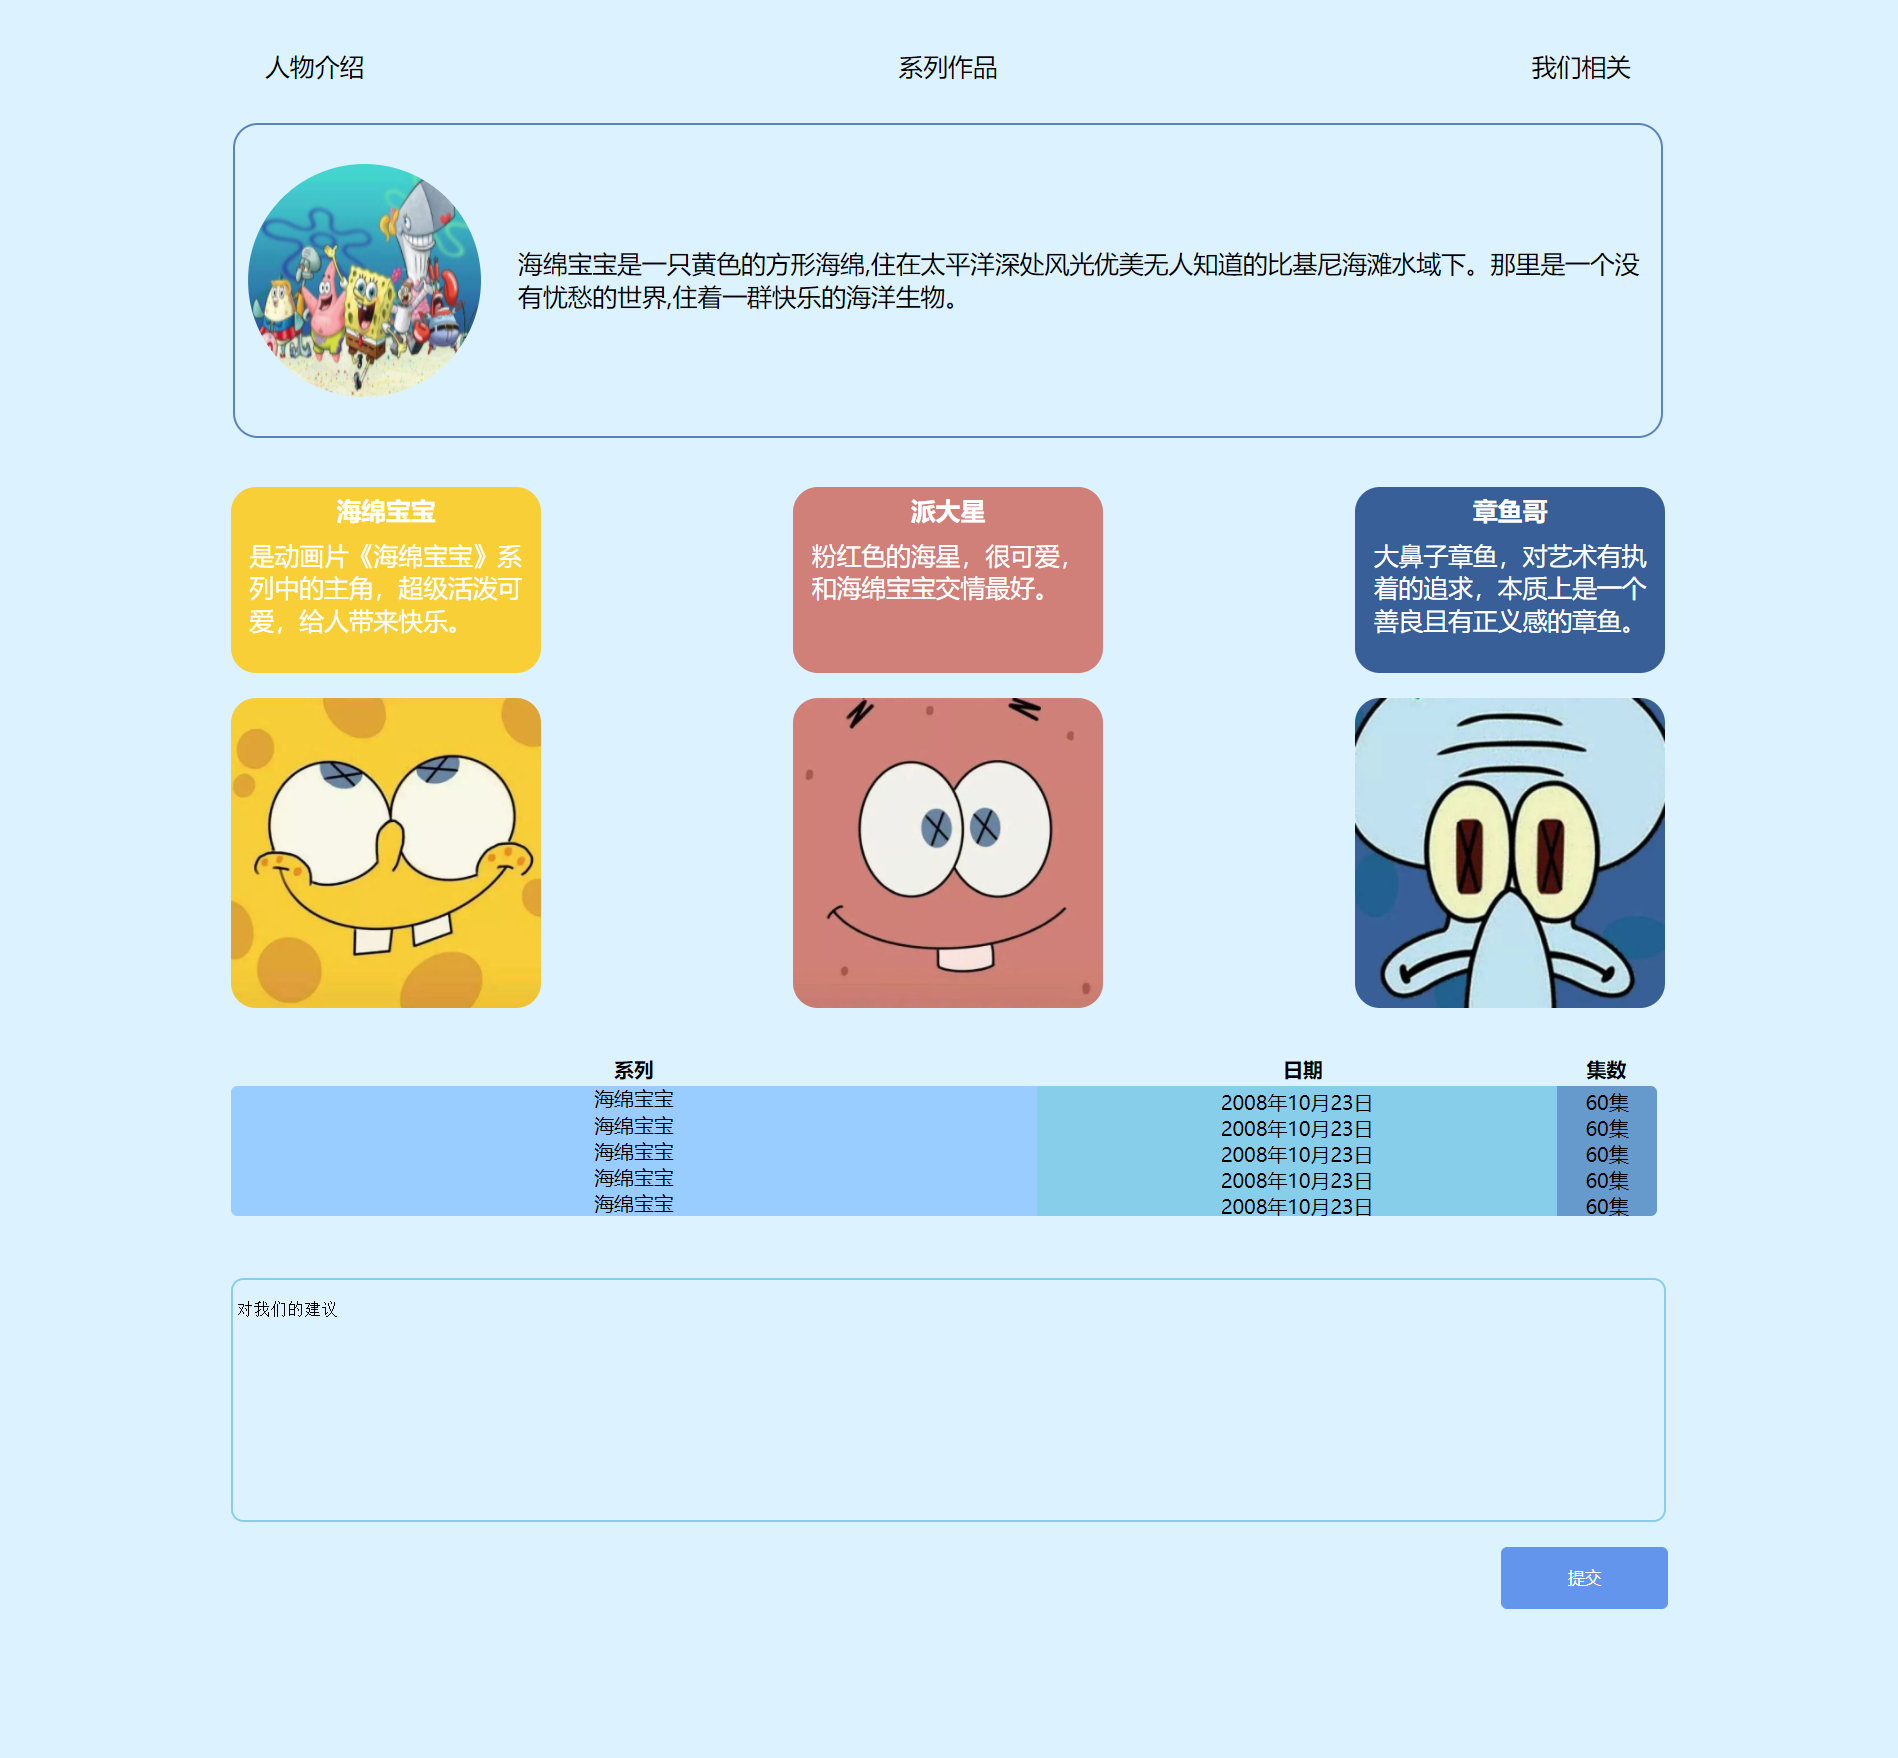
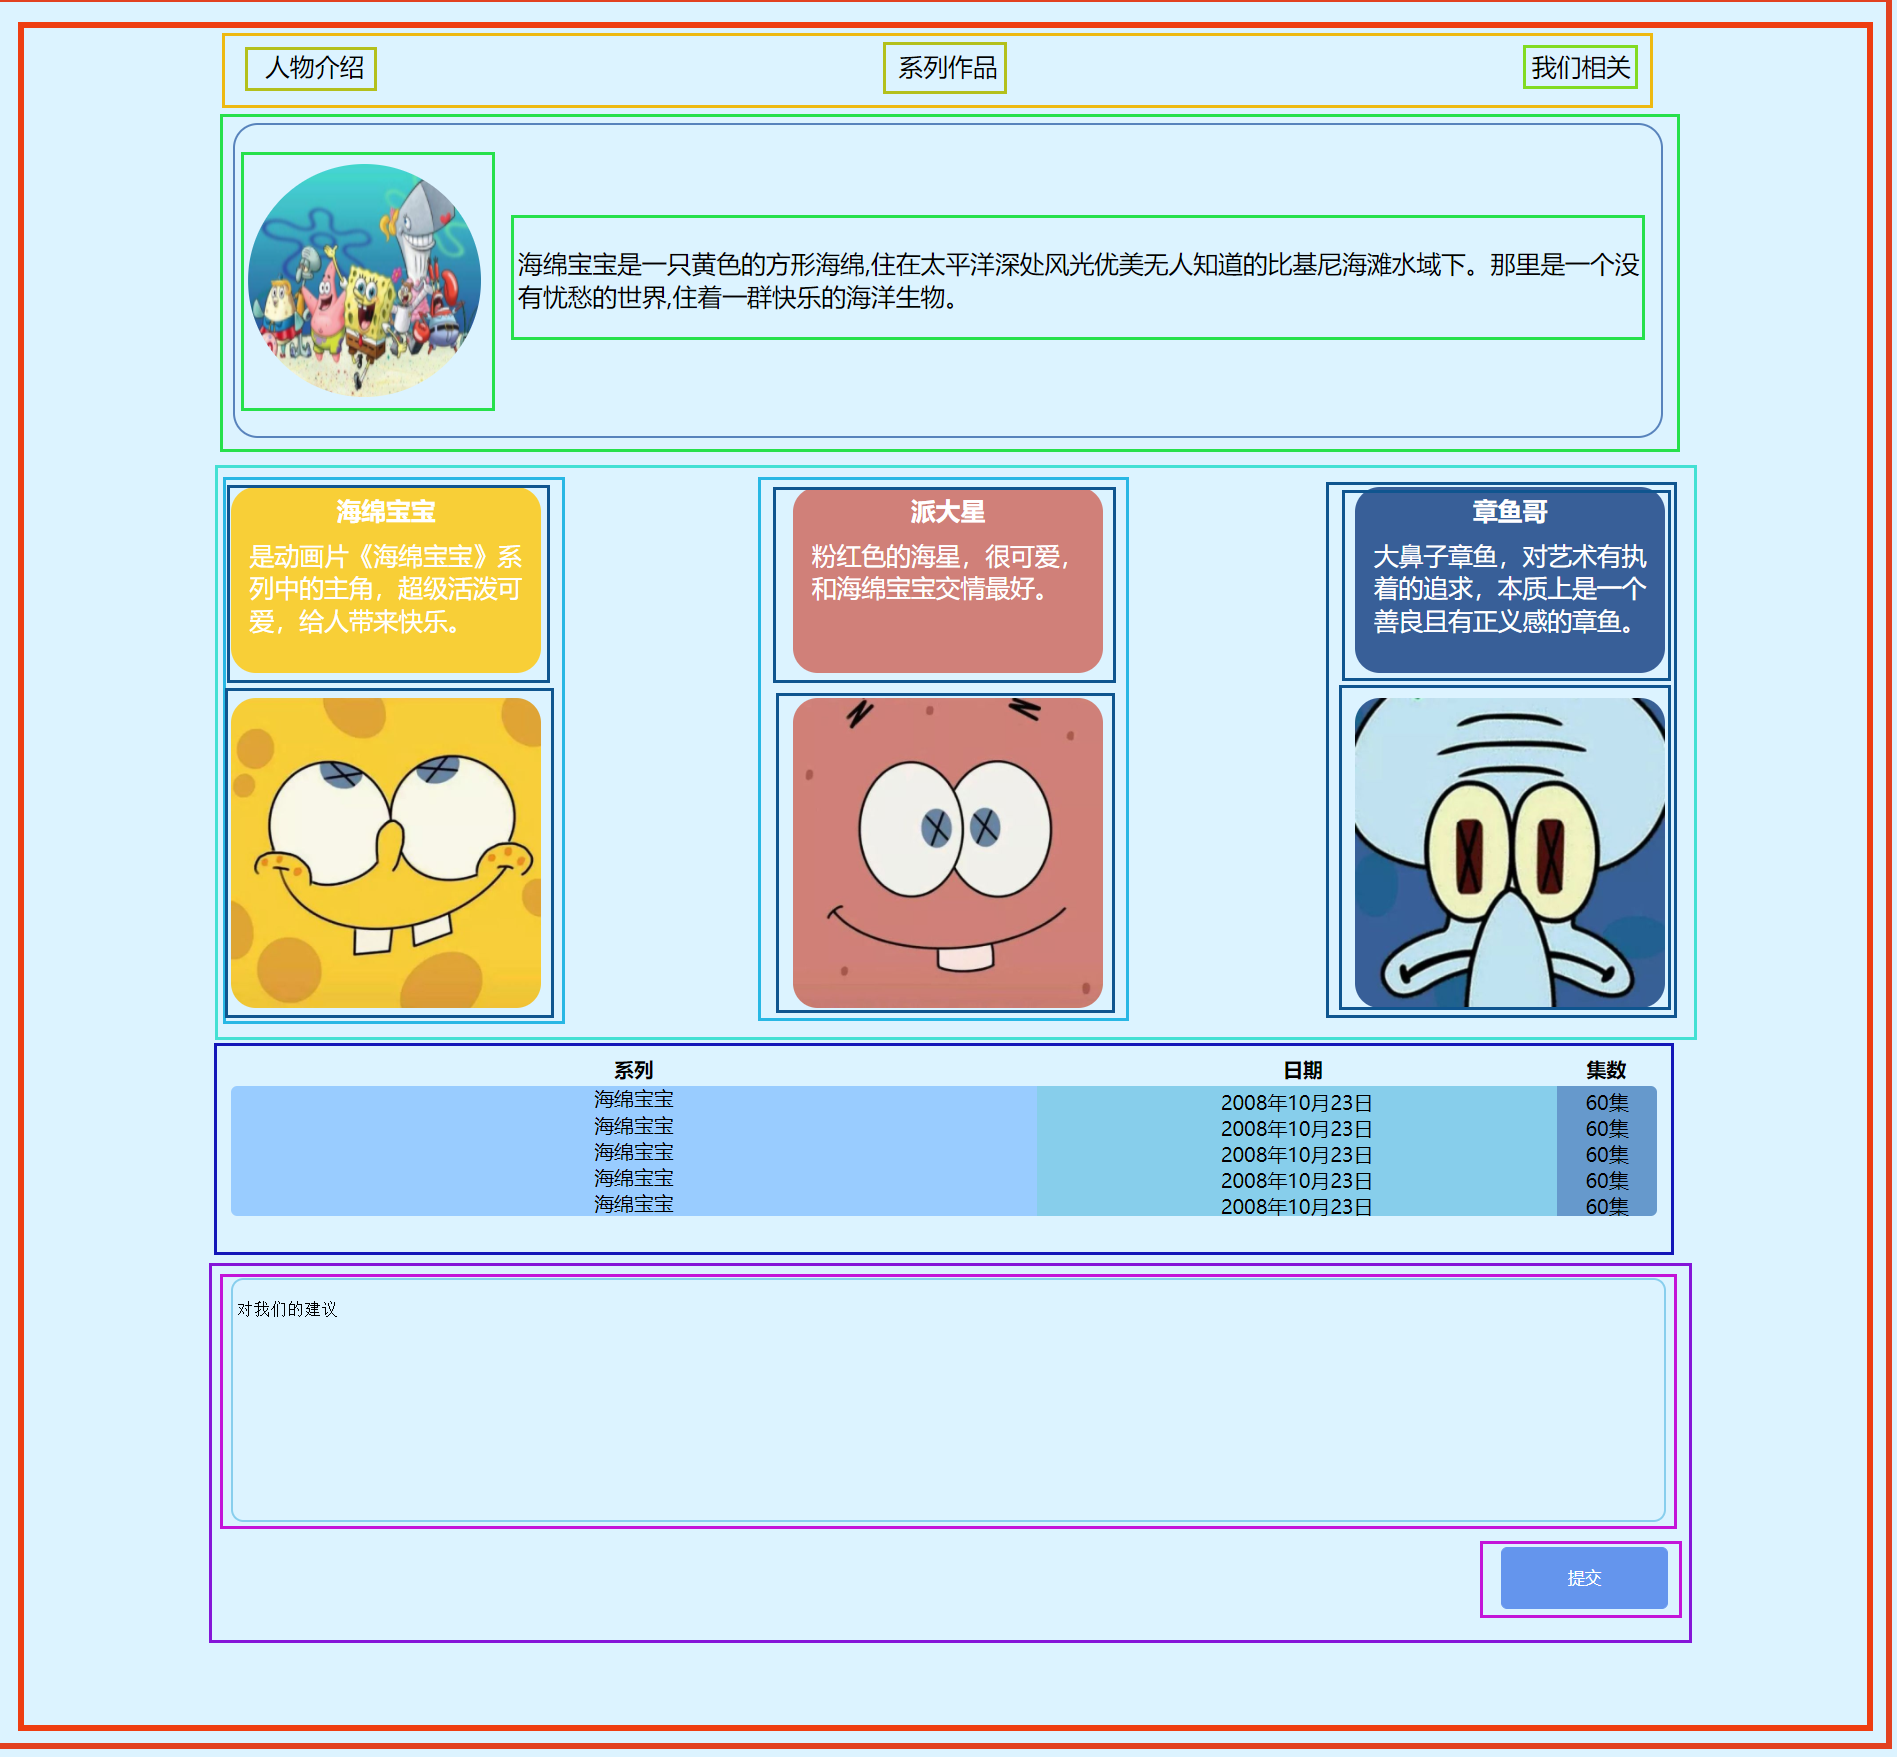
<feat>Add external css

diff --git a/1-HTML与CSS/HTML_and_CSS.html b/1-HTML与CSS/HTML_and_CSS.html
@@ -4,19 +4,7 @@
     <meta charset="UTF-8">
     <meta name="viewport" content="width=device-width, initial-scale=1.0">
     <title>海绵宝宝和他的朋友们</title>
-    <style>
-        body{
-            background-color: #dcf3ff;
-        }
-        .textbox{
-            border: 2px solid #5883bc;
-            padding: 10px;
-            width: 100%;
-            box-sizing: border-box;
-            min-height: 100px;
-            overflow: auto;
-        }
-    </style>
+    <link rel="stylesheet" type="text/css" href="./assets/style.css">
 </head>
 <body>
 <!-- 导航栏 -->
@@ -28,30 +16,33 @@
         </nav>
     </header>
     <br>
-<!-- 人物介绍-->
-    <main>
+<!-- 主体内容 -->
+    <div>
         <article class="textbox" contenteditable="false">
             <p>海绵宝宝是一只方形的黄色海绵，住在太平洋风光优美无人知道的比基尼海滩水域下。那里是一个没有忧愁的世界，住着一群快乐的海洋生物。</p>
         </article>
-        <br>
-        <label for="#Characters"></label>
-        <div id="#Characters" class="textbox" contenteditable="false">
+    </div>
+    <br>
+<!-- 人物介绍-->
+    <label for="#Characters"></label>
+    <div id="#Characters" >
+        <div id="#SpongeBob" class="textbox" contenteditable="false">
             <h3>海绵宝宝</h3>
             <p>是动画片《海绵宝宝》系列中的主角，超级活泼可爱，给人带来快乐。</p>
         </div>
-        <div class="textbox" contenteditable="false">
+        <div id="#PatrickStar" class="textbox" contenteditable="false">
             <h3>派大星</h3>
             <p>粉红色的海星，很可爱，和海绵宝宝交情最好。</p>
         </div>
-        <div class="textbox" contenteditable="false">
+        <div id="#SquidwardTentacles" class="textbox" contenteditable="false">
             <h3>章鱼哥</h3>
             <p>大鼻子章鱼，对艺术有执着的追求，本质上是一个善良而富有正义感的章鱼。</p>
         </div>
-    </main>
+    </div>
     <br>
 <!-- 系列作品 -->
     <label for="#Episodes"></label>
-    <table>
+    <table id="Episodes">
         <thead>
             <tr>
                 <th scope="col">系列</th>

diff --git a/1-HTML与CSS/assets/style.css b/1-HTML与CSS/assets/style.css
@@ -1,0 +1,12 @@
+body {
+    background-color: #dcf3ff;
+    }
+
+.textbox {
+    border: 2px solid #5883bc;
+    padding: 10px;
+    width: 100%;
+    box-sizing: border-box;
+    min-height: 100px;
+    overflow: auto;
+}
